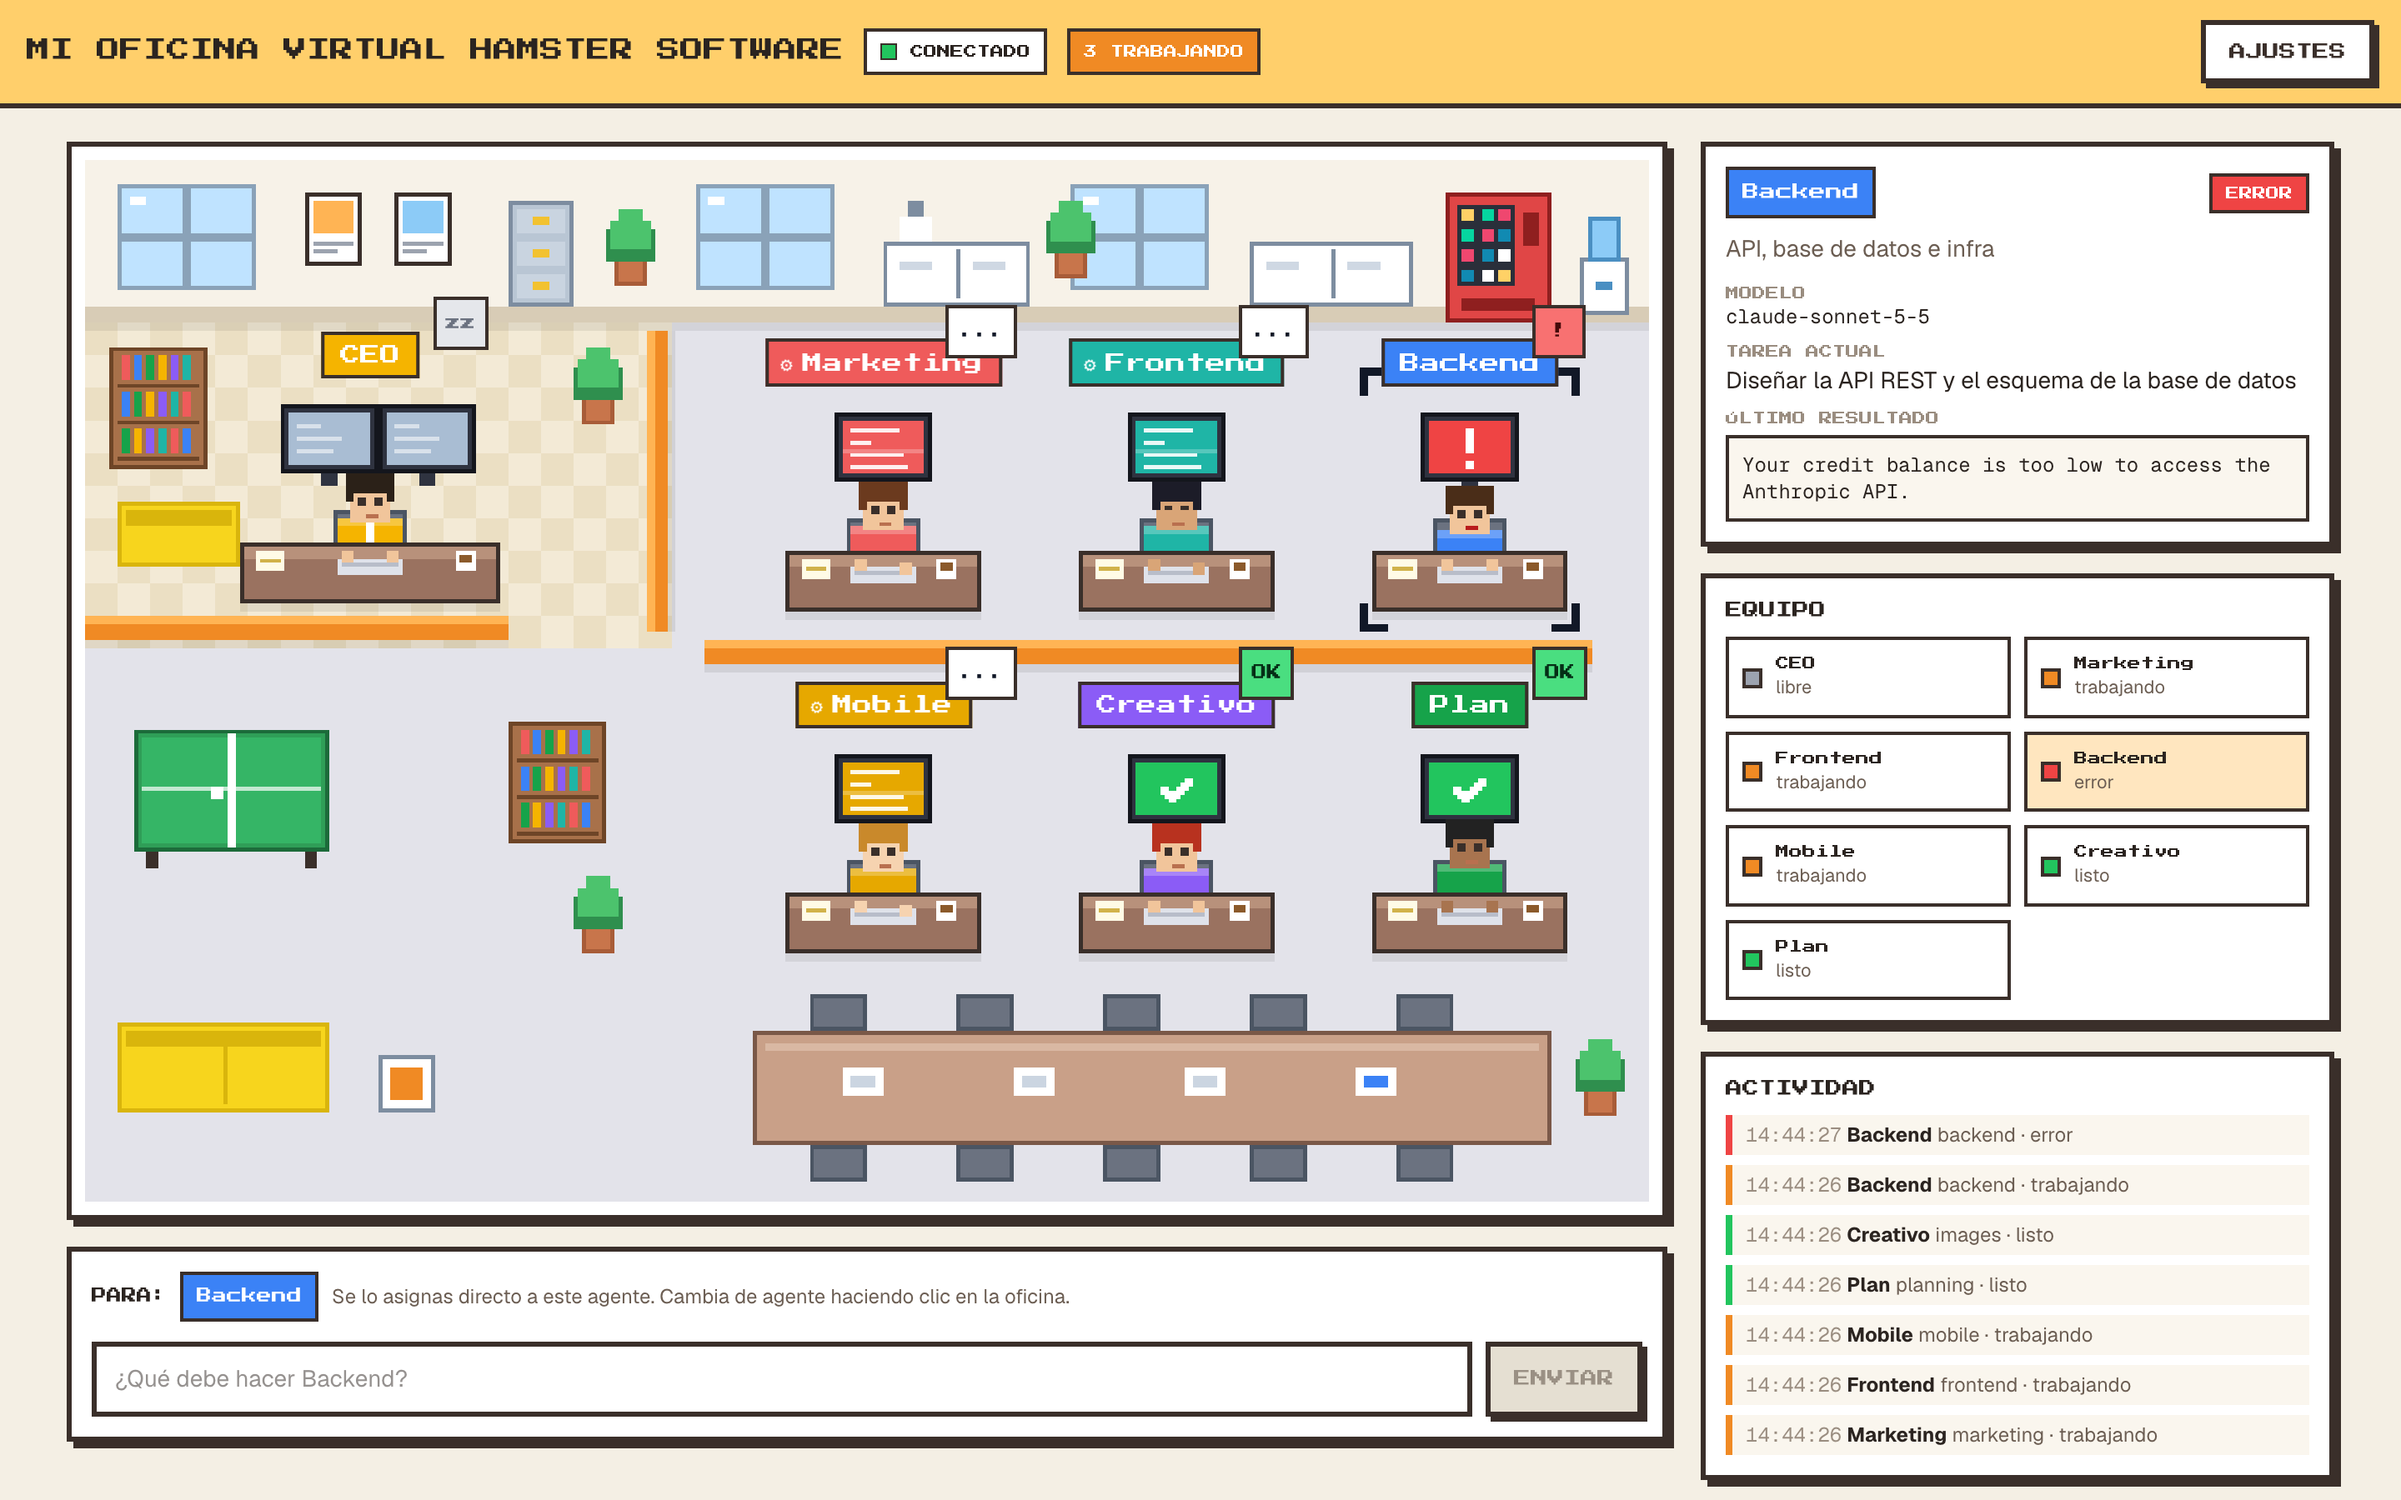
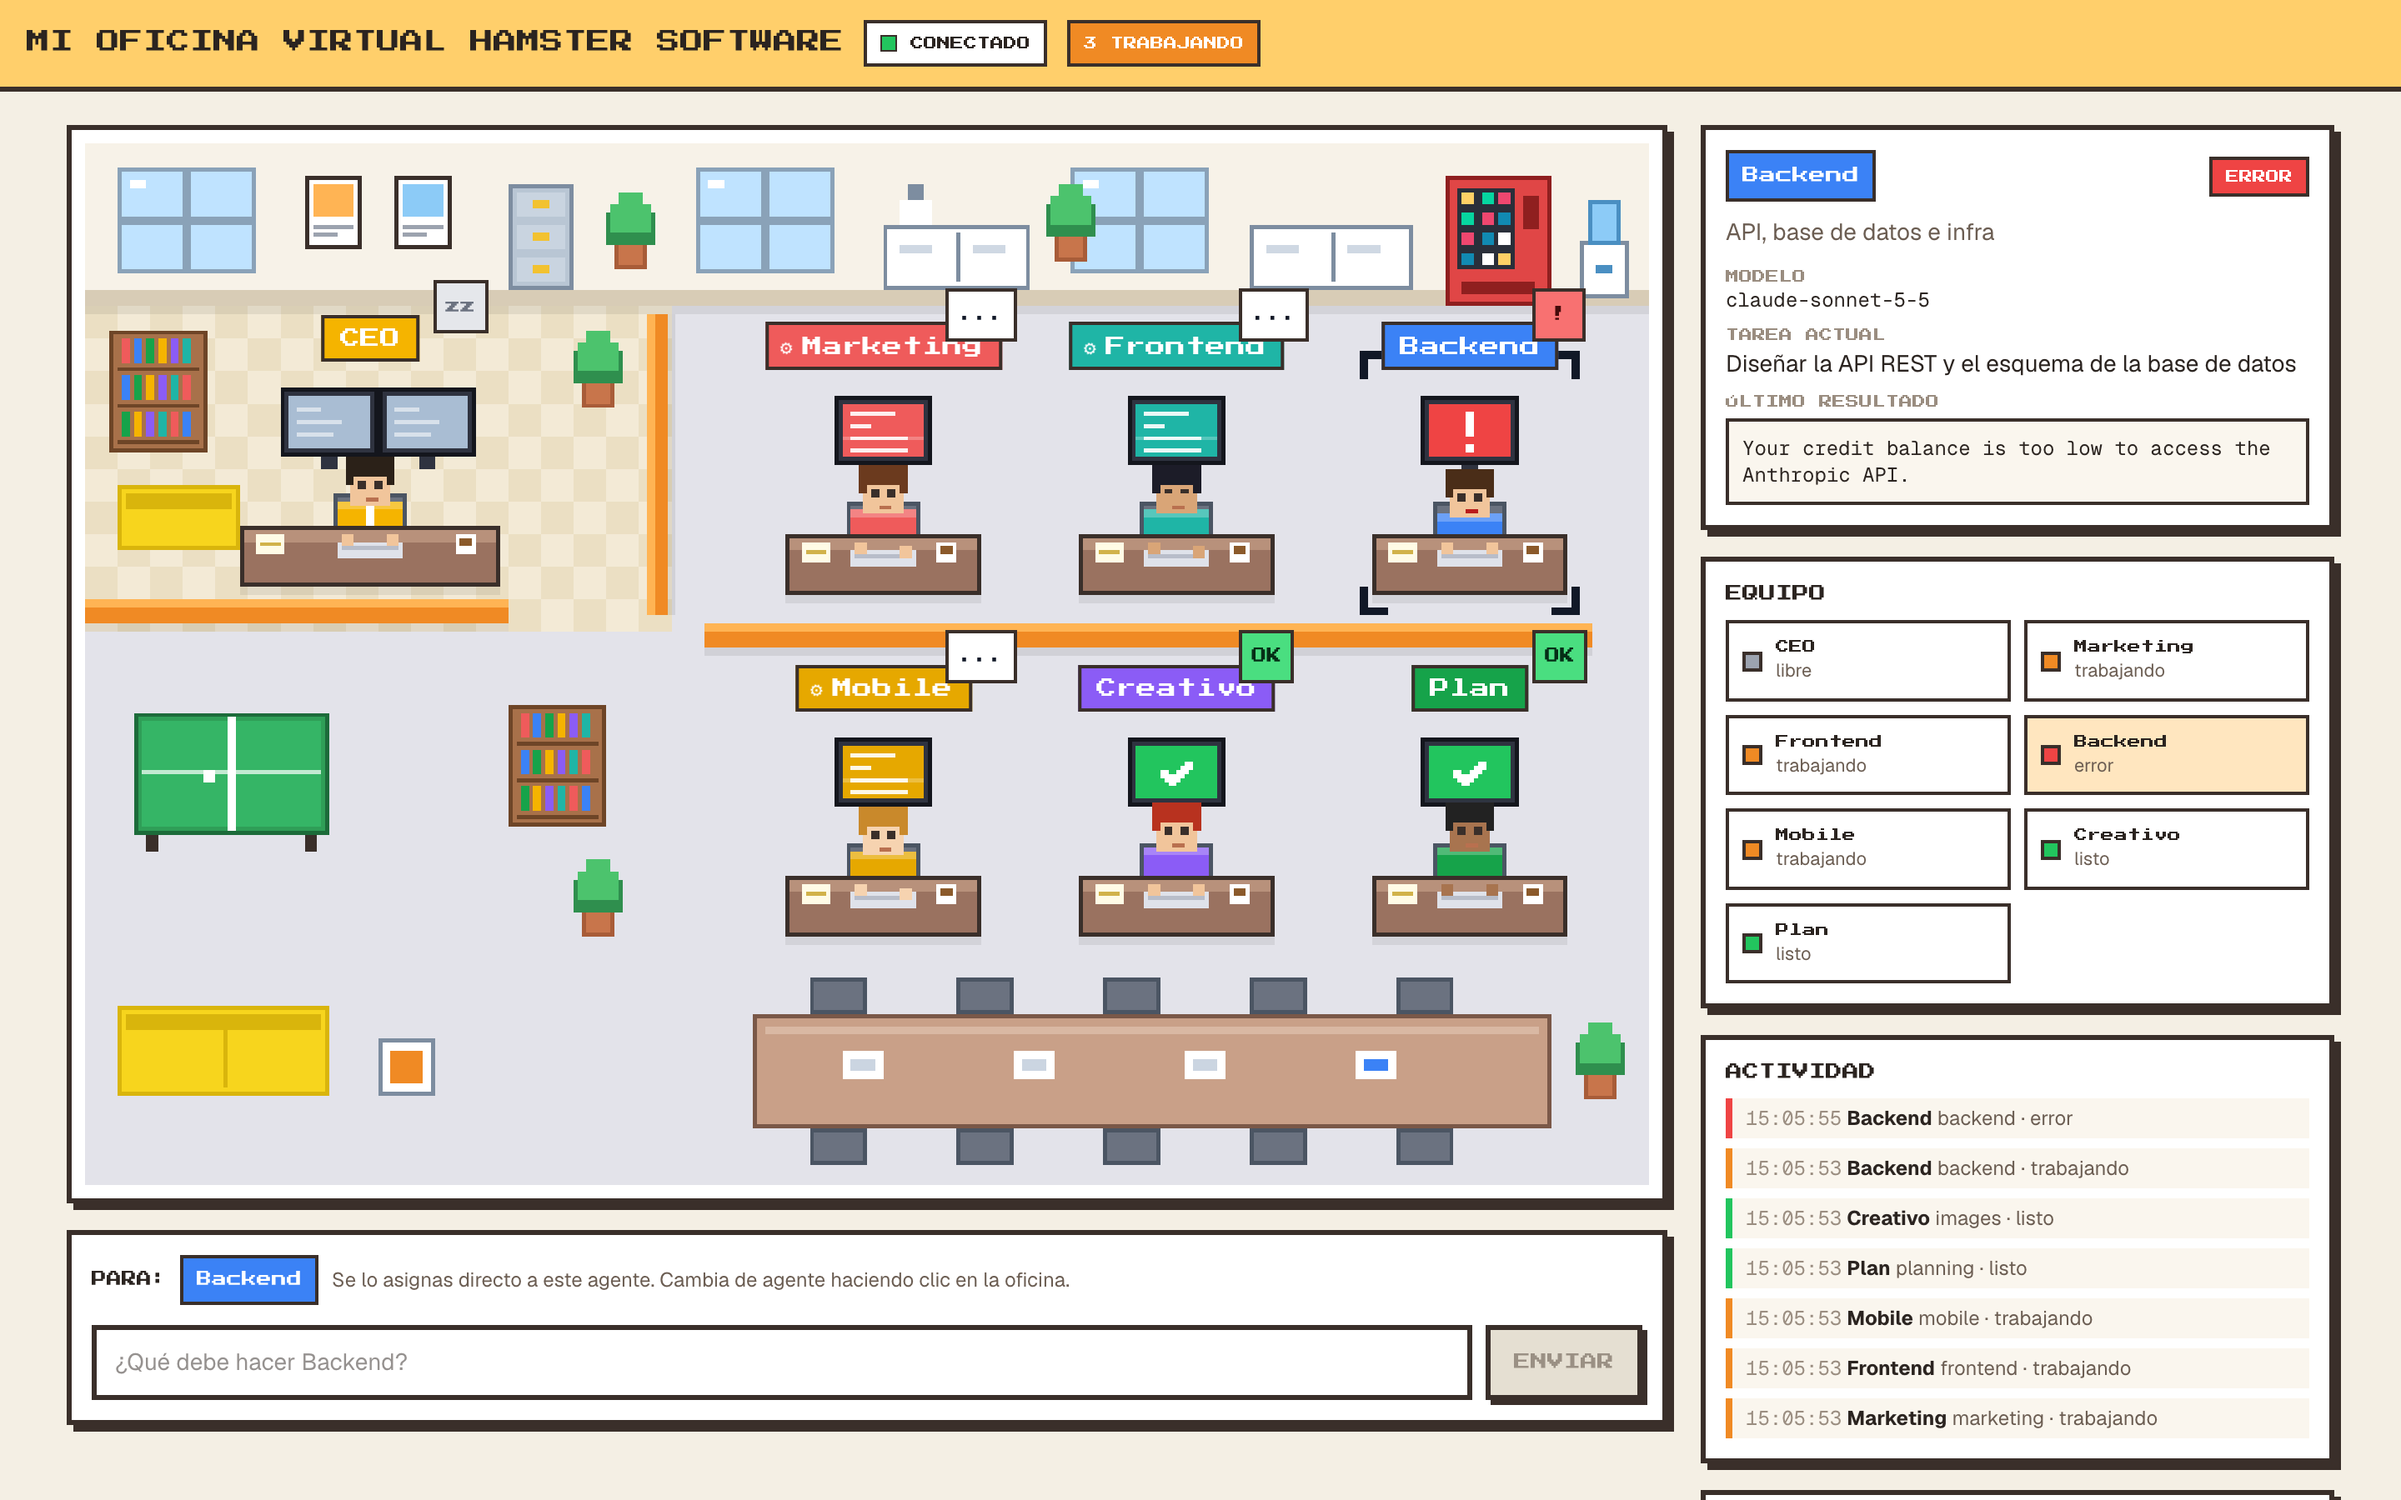
feat: remove the API keys settings panel from the UI
- Drop the AJUSTES button and SettingsPanel; keys are now set only in
  backend/.env (the /settings endpoints stay in the backend).
- Update the README and retake the screenshots without the button.

diff --git a/frontend/app/page.tsx b/frontend/app/page.tsx
@@ -7,7 +7,6 @@ import { sendTask } from "@/lib/api";
 import { AGENT_BY_KEY } from "@/lib/office";
 import type { AgentKey } from "@/types/agent";
 import ControlPanel, { type HistoryEntry } from "@/components/ControlPanel";
-import SettingsPanel from "@/components/SettingsPanel";
 
 const PixelOffice = dynamic(() => import("@/components/PixelOffice"), { ssr: false });
 
@@ -20,7 +19,6 @@ export default function OfficePage() {
   const [sending, setSending] = useState(false);
   const [error, setError] = useState("");
   const [history, setHistory] = useState<HistoryEntry[]>([]);
-  const [showSettings, setShowSettings] = useState(false);
 
   const target = AGENT_BY_KEY[selected];
   const working = Object.values(agentStates).filter((s) => s.status === "working").length;
@@ -46,8 +44,6 @@ export default function OfficePage() {
 
   return (
     <div className="min-h-screen">
-      {showSettings && <SettingsPanel onClose={() => setShowSettings(false)} />}
-
       <header className="flex flex-wrap items-center gap-3 border-b-[3px] border-[#3a2f2a] bg-[#ffcf6b] px-4 py-3">
         <h1 className="font-pixel text-[11px] leading-snug sm:text-sm">MI OFICINA VIRTUAL HAMSTER SOFTWARE</h1>
         <span
@@ -65,13 +61,6 @@ export default function OfficePage() {
             {working} TRABAJANDO
           </span>
         )}
-        <button
-          type="button"
-          onClick={() => setShowSettings(true)}
-          className="px-btn px-btn-ghost ml-auto"
-        >
-          AJUSTES
-        </button>
       </header>
 
       <main className="mx-auto grid max-w-[1400px] gap-5 p-3 sm:p-5 lg:grid-cols-[minmax(0,1fr)_380px]">

diff --git a/README.md b/README.md
@@ -76,7 +76,7 @@ Abre <http://localhost:3000>.
 
 **3. API keys**
 
-Pulsa **AJUSTES** en la cabecera y pega tus keys. Se guardan en `backend/.env`, que está en `.gitignore`. También puedes crear ese archivo a mano:
+Crea `backend/.env` (está en `.gitignore`) con tus keys y reinicia el backend:
 
 ```bash
 ANTHROPIC_API_KEY=sk-ant-...
@@ -97,7 +97,7 @@ El repositorio incluye un servidor MCP por stdio ([`.mcp.json`](.mcp.json)) que 
 | Método | Ruta | Descripción |
 | --- | --- | --- |
 | `GET` | `/health` | Comprueba que el backend está vivo. |
-| `GET` / `POST` | `/settings` | Consulta o guarda las API keys. |
+| `GET` / `POST` | `/settings` | Consulta o guarda las API keys (sin pantalla en la interfaz; se editan en `backend/.env`). |
 | `GET` | `/agents` | Estado actual de los agentes. |
 | `GET` | `/history` | Tareas enviadas. |
 | `POST` | `/task` | `{ "instruction": "...", "crew": "backend" }`. Sin `crew`, lo gestiona el CEO. |
@@ -115,7 +115,7 @@ backend/
   tests/
 frontend/
   app/page.tsx         la oficina y la barra de comandos
-  components/          PixelOffice, ControlPanel, SettingsPanel
+  components/          PixelOffice, ControlPanel
   lib/office.ts        posiciones y colores de los agentes
   hooks/useWebSocket.ts
 docs/                  diseño, plan e imágenes de este README
